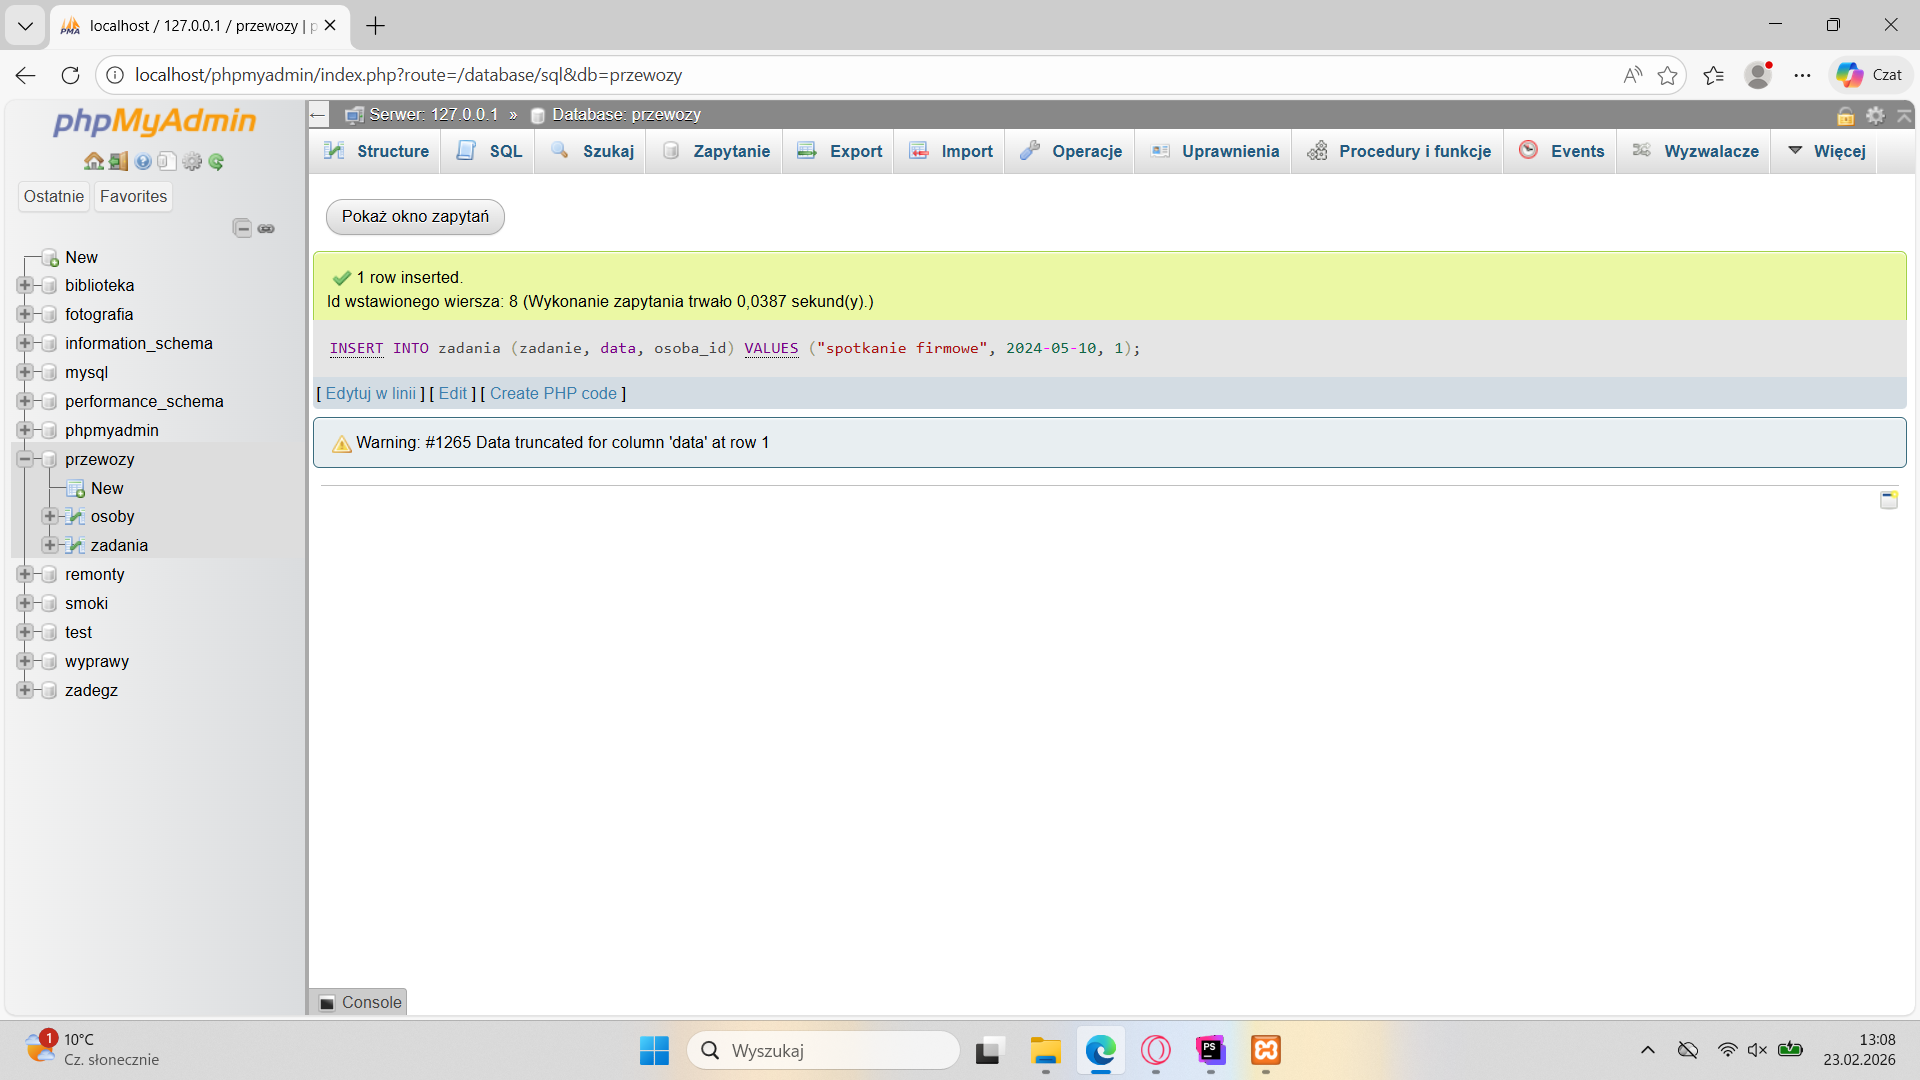
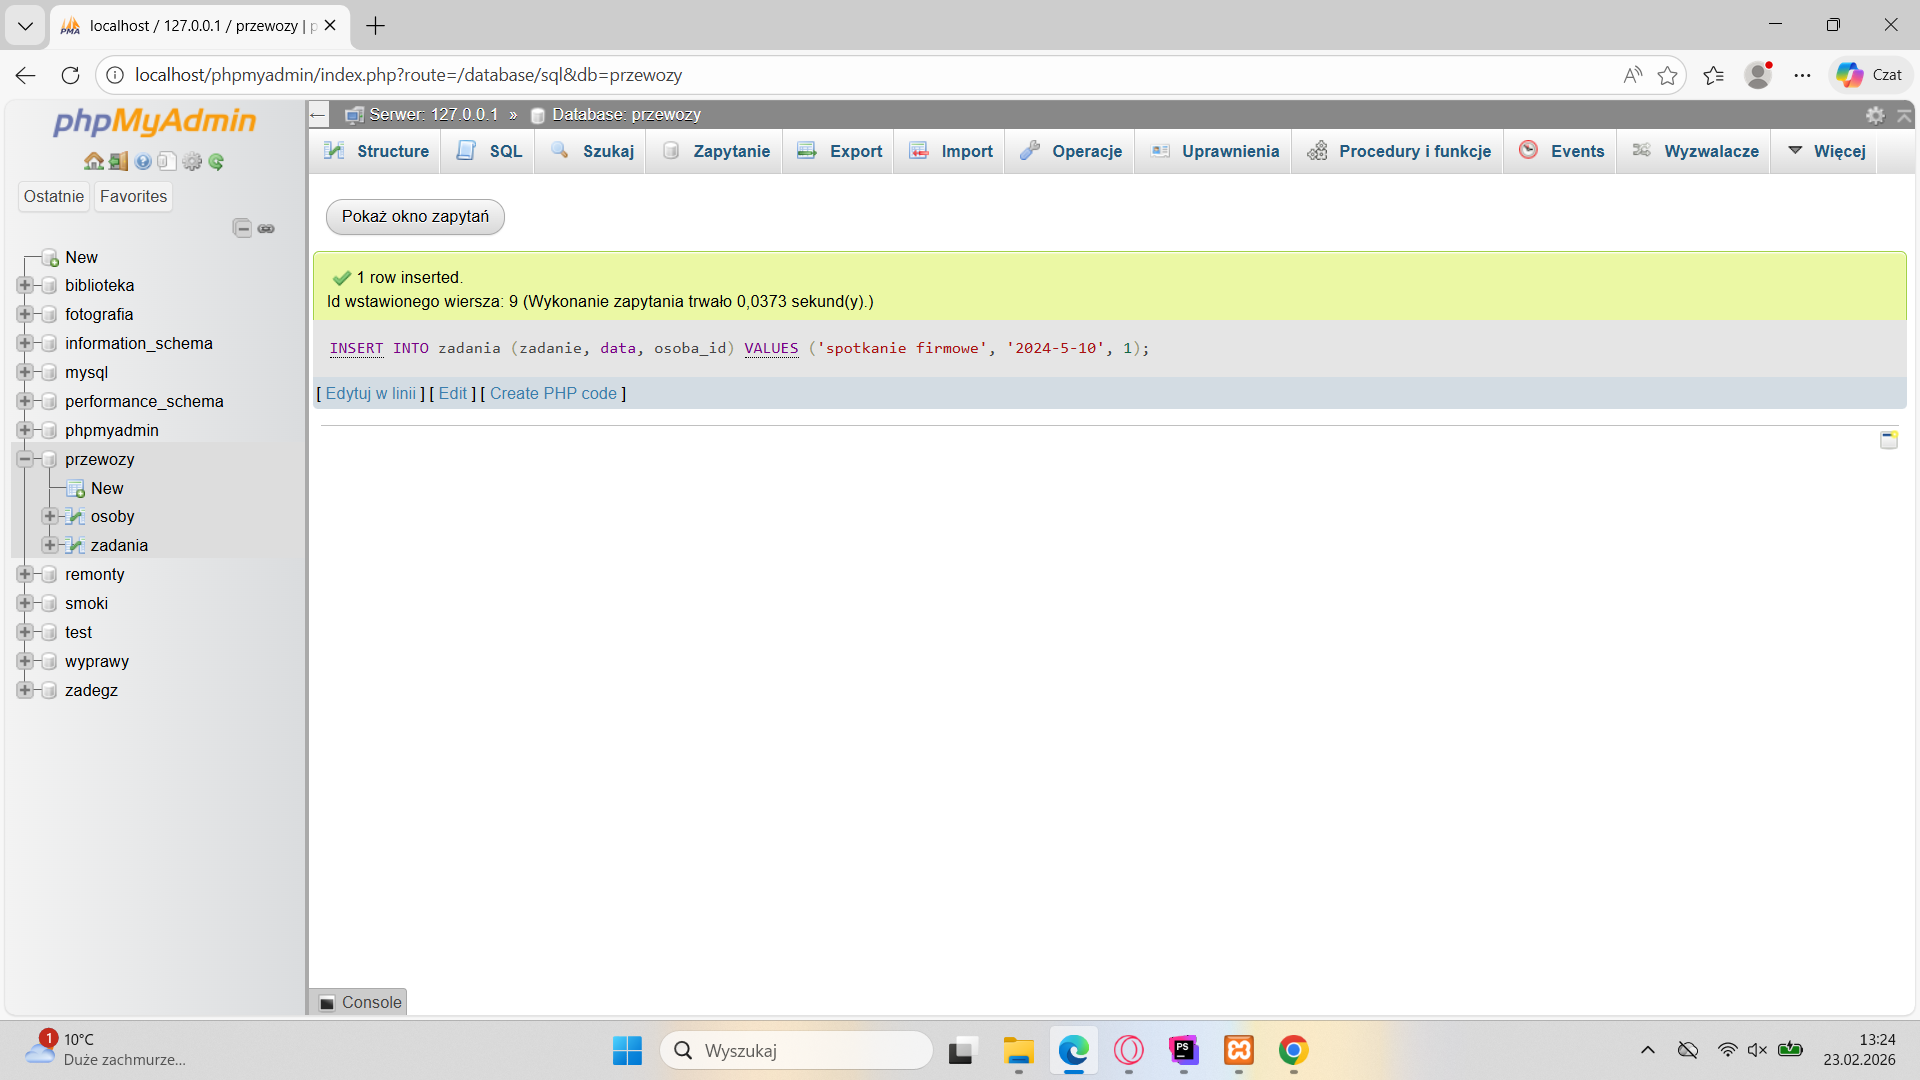
Zadanie z baz danych zostało skończone i wysłane

diff --git a/2026/Tematy/T59/T59a/index.php b/2026/Tematy/T59/T59a/index.php
@@ -1,8 +1,20 @@
+<?php
+$cookie_name = "ostatnio";
+
+if (isset($_COOKIE[$cookie_name])) {
+    $komunikat = "Twoja ostatnia wizyta: " . $_COOKIE[$cookie_name];
+} else {
+    $komunikat = "Witaj pierwszy raz na stronie";
+}
+
+$ostatnia = date("Y-m-d H:i:s");
+setcookie($cookie_name, $ostatnia, time() + (86400 * 30)); // 30 dni
+?>
 <!DOCTYPE html>
 <html lang="pl">
 <head>
-    <link rel="stylesheet" href="style.css">
     <meta charset="UTF-8">
+    <link rel="stylesheet" href="style.css">
     <title>Zadanie T59</title>
 </head>
 <body>
@@ -14,28 +26,14 @@
 
 <section>
     <p>
-        PHP zastosowanie plików cookies
-
-
-        Napisz skrypt tworzący plik cookie wizyta - określający datę ostatnich odwiedzin strony przez użytkownika oraz skrypt odczytujący tę informację.
-
-        CSS i inne szykany nie są obowiązkowe ;)
+        PHP zastosowanie plików cookies<br>
+        Napisz skrypt tworzący plik cookie z datą ostatniej wizyty i odczytujący go.
     </p>
 </section>
 
 <section>
     <?php
-
-    $cookie_name = "ostatnio";
-    if (isset($_COOKIE[$cookie_name])) {
-        echo "Twoja ostatnia wizyta: ".  $_COOKIE[$cookie_name]. " <br>";
-    } else {
-        echo "Witej pierwszy raz na stronie";
-    }
-
-    $ostatnia = date("Y-m-d H:i:s");
-    setcookie($cookie_name, $ostatnia, time() + (86400 * 30), "/");
-
+    echo $komunikat;
     ?>
 </section>
 

diff --git a/2026/Tematy/T56/index.php b/2026/Tematy/T56/index.php
@@ -38,11 +38,12 @@ echo "Dodanie komentarza nie powiodło się";
 <form action="index.php" method="post">
     <br>
 <p><b>Dodaj swój komentarz na temat globalnego ocieplenia</b>(Maksymalnie 255 znaków)</p>
+    <label>
 <textarea name="komentarz" rows="10" cols="100"
-wrap="virtual"></textarea><br>
+wrap="hard"></textarea>
+    </label><br>
 <input type="submit" value="Wyślij">
 </div>
-</form>
 
 </section>
     <section>

diff --git a/2026/Tematy/T59/T59b - koszyk zakopow/lista.php b/2026/Tematy/T59/T59b - koszyk zakopow/lista.php
@@ -2,7 +2,7 @@
 session_start();
 ?>
     <!DOCTYPE HTML>
-    <html>
+    <html lang="">
     <head>
         <title>Koszyk zakupów</title>
         <link rel="stylesheet" href="style.css">

diff --git a/index.php b/index.php
@@ -1,0 +1,2 @@
+<?php
+phpinfo();
